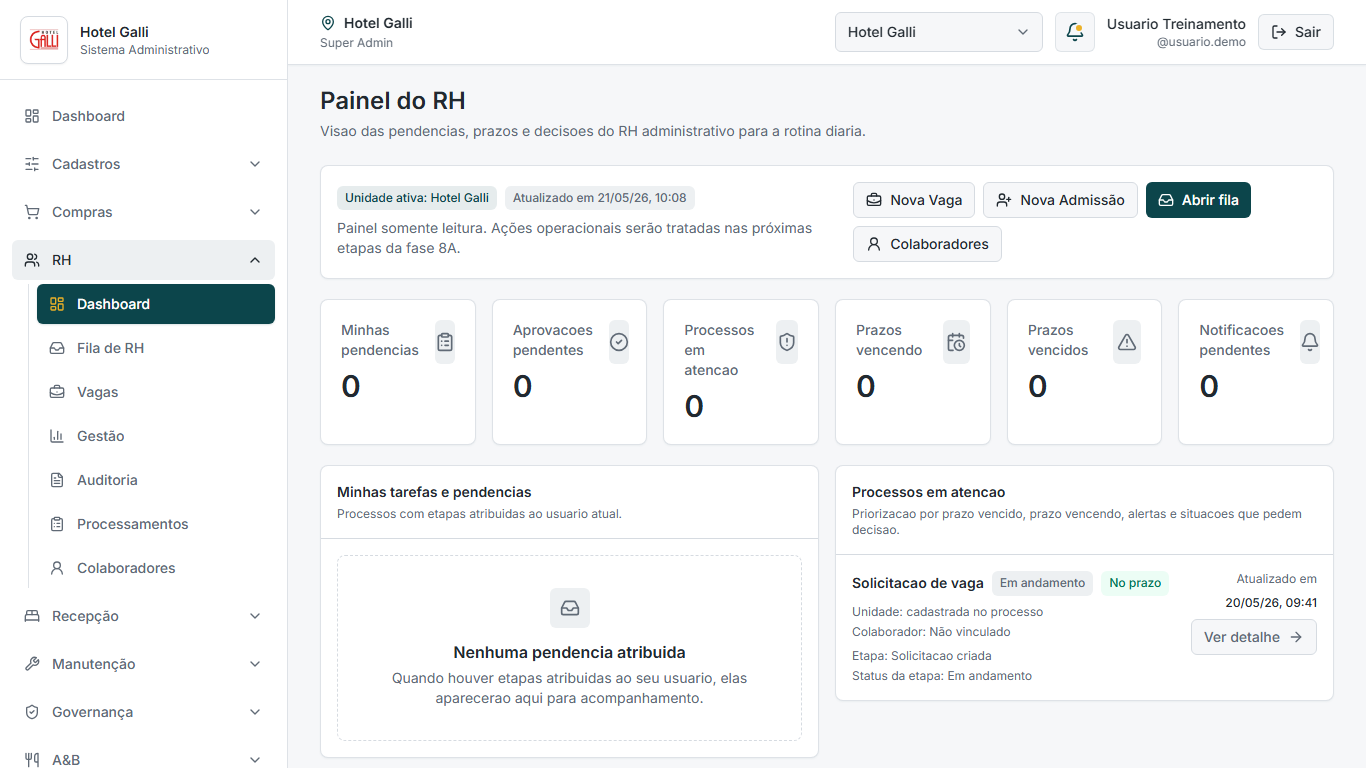
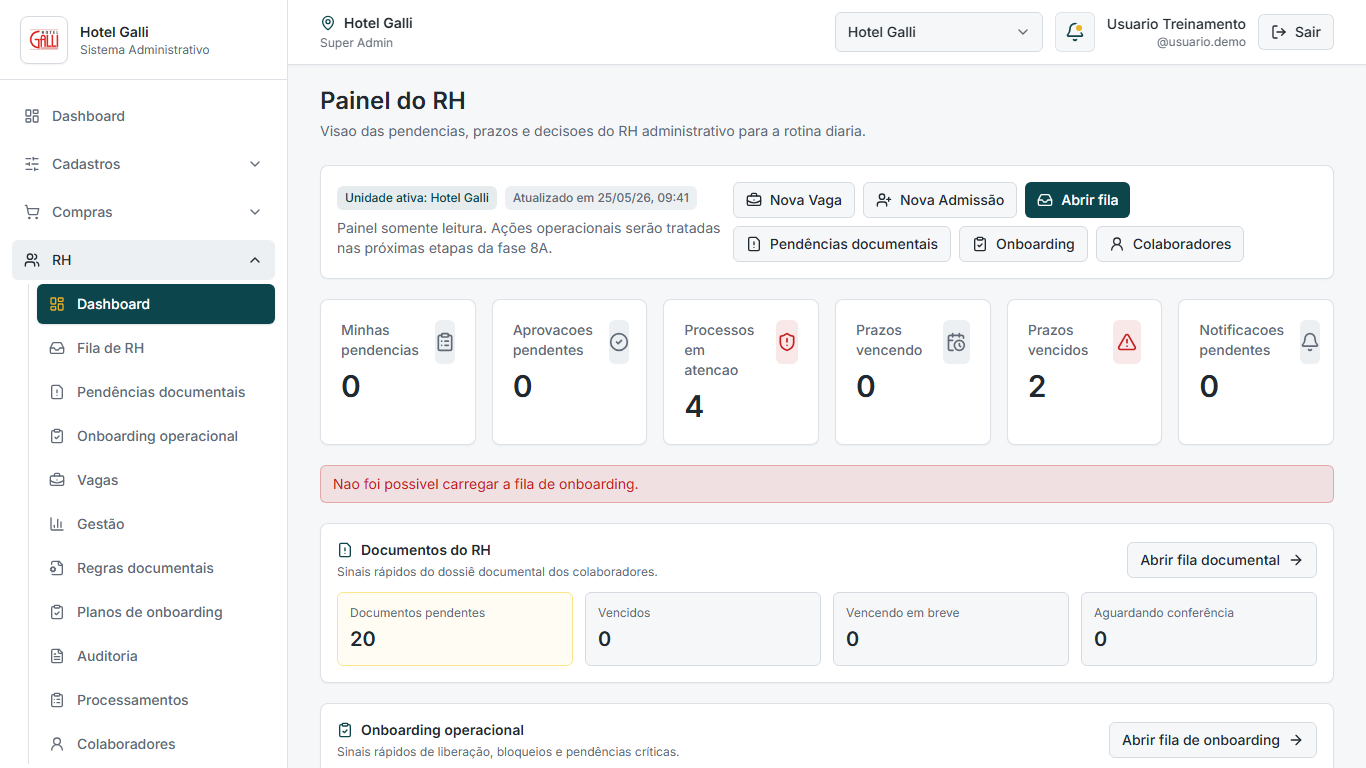
rh-13c-screenshots-onboarding-operacional

diff --git a/tests/screenshots/rh.spec.ts b/tests/screenshots/rh.spec.ts
@@ -148,20 +148,46 @@ const captureTargets: CaptureTarget[] = [
     title: "Rotinas automaticas",
     fileSlug: "13-rotinas-rh",
     expectedText: /Rotinas|autom.ticas|RH/i
+  },
+  {
+    kind: "static",
+    route: "/rh/onboarding",
+    title: "Onboarding operacional",
+    fileSlug: "14-onboarding-operacional",
+    expectedText: /Onboarding operacional|Fila operacional/i
   }
 ];
+
+const requestedTargets = new Set(
+  (process.env.RH_SCREENSHOT_TARGETS ?? "")
+    .split(",")
+    .map((target) => target.trim().toLowerCase())
+    .filter(Boolean)
+);
+
+const activeCaptureTargets = requestedTargets.size
+  ? captureTargets.filter((target) =>
+      [target.fileSlug, target.kind === "static" ? target.route : target.routeTemplate, target.title]
+        .map((value) => value.toLowerCase())
+        .some((value) => requestedTargets.has(value) || requestedTargets.has(value.replace(/^\d+-/, "")))
+    )
+  : captureTargets;
 
 test.use({
   storageState: fs.existsSync(authStatePath) ? authStatePath : undefined
 });
 
-test.setTimeout(300_000);
+test.setTimeout(900_000);
 
 test.beforeAll(() => {
   fs.mkdirSync(screenshotsDir, { recursive: true });
 
   for (const file of fs.readdirSync(screenshotsDir)) {
-    if (file.endsWith(".png") || file === path.basename(reportPath)) {
+    const shouldDeletePng = requestedTargets.size
+      ? activeCaptureTargets.some((target) => file.endsWith(".png") && file.includes(target.fileSlug))
+      : file.endsWith(".png");
+
+    if (shouldDeletePng || file === path.basename(reportPath)) {
       fs.unlinkSync(path.join(screenshotsDir, file));
     }
   }
@@ -326,51 +352,61 @@ async function findDynamicRoute(page: Page, target: DynamicTarget) {
 }
 
 async function captureTarget(page: Page, target: CaptureTarget, viewportLabel: string, index: number): Promise<CaptureResult> {
-  const route =
-    target.kind === "dynamic"
-      ? await findDynamicRoute(page, target)
-      : { route: target.route, reason: undefined as string | undefined };
+  try {
+    const route =
+      target.kind === "dynamic"
+        ? await findDynamicRoute(page, target)
+        : { route: target.route, reason: undefined as string | undefined };
 
-  if (!route.route) {
+    if (!route.route) {
+      return {
+        title: target.title,
+        route: target.kind === "dynamic" ? target.routeTemplate : target.route,
+        viewport: viewportLabel,
+        captured: false,
+        reason: route.reason
+      };
+    }
+
+    await page.goto(route.route, { waitUntil: "domcontentloaded" });
+    const unavailableReason = await waitForStyledApp(page, target.expectedText);
+
+    if (unavailableReason) {
+      return {
+        title: target.title,
+        route: route.route,
+        viewport: viewportLabel,
+        captured: false,
+        reason: unavailableReason
+      };
+    }
+
+    await maskSensitiveTexts(page);
+
+    const file = `${viewportLabel}-${String(index + 1).padStart(2, "0")}-${target.fileSlug}.png`;
+    const screenshotPath = path.join(screenshotsDir, file);
+
+    await page.screenshot({
+      path: screenshotPath,
+      fullPage: true
+    });
+
+    return {
+      title: target.title,
+      route: route.route,
+      viewport: viewportLabel,
+      captured: true,
+      file
+    };
+  } catch (error) {
     return {
       title: target.title,
       route: target.kind === "dynamic" ? target.routeTemplate : target.route,
       viewport: viewportLabel,
       captured: false,
-      reason: route.reason
+      reason: error instanceof Error ? error.message : "Falha inesperada durante a captura."
     };
   }
-
-  await page.goto(route.route, { waitUntil: "domcontentloaded" });
-  const unavailableReason = await waitForStyledApp(page, target.expectedText);
-
-  if (unavailableReason) {
-    return {
-      title: target.title,
-      route: route.route,
-      viewport: viewportLabel,
-      captured: false,
-      reason: unavailableReason
-    };
-  }
-
-  await maskSensitiveTexts(page);
-
-  const file = `${viewportLabel}-${String(index + 1).padStart(2, "0")}-${target.fileSlug}.png`;
-  const screenshotPath = path.join(screenshotsDir, file);
-
-  await page.screenshot({
-    path: screenshotPath,
-    fullPage: true
-  });
-
-  return {
-    title: target.title,
-    route: route.route,
-    viewport: viewportLabel,
-    captured: true,
-    file
-  };
 }
 
 test("capturar telas principais do modulo de RH", async ({ page }) => {
@@ -379,8 +415,8 @@ test("capturar telas principais do modulo de RH", async ({ page }) => {
   for (const viewport of viewports) {
     await page.setViewportSize({ width: viewport.width, height: viewport.height });
 
-    for (let index = 0; index < captureTargets.length; index += 1) {
-      results.push(await captureTarget(page, captureTargets[index], viewport.label, index));
+    for (let index = 0; index < activeCaptureTargets.length; index += 1) {
+      results.push(await captureTarget(page, activeCaptureTargets[index], viewport.label, index));
     }
   }
 